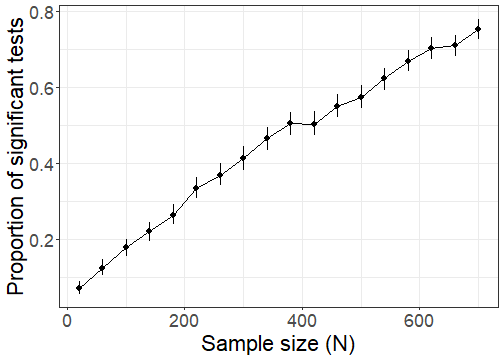
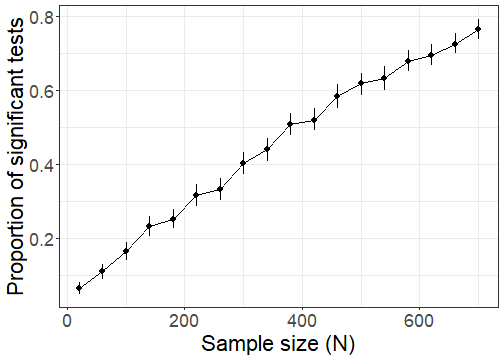
fixed typo

diff --git a/Week-23---Power-and-Effect-Size.html b/Week-23---Power-and-Effect-Size.html
@@ -69,13 +69,13 @@ t.test(a, b)
 ## 	Welch Two Sample t-test
 ## 
 ## data:  a and b
-## t = -3.6041, df = 97.936, p-value = 0.0004945
+## t = -5.2875, df = 96.591, p-value = 7.705e-07
 ## alternative hypothesis: true difference in means is not equal to 0
 ## 95 percent confidence interval:
-##  -1.0605961 -0.3073724
+##  -1.4128043 -0.6416112
 ## sample estimates:
-## mean of x mean of y 
-## 0.2140856 0.8980699
+##  mean of x  mean of y 
+## -0.1956339  0.8315739
 ```
 
 ---
@@ -245,9 +245,9 @@ As the effect size increases, the **power** of the study increases.
 ![](Week-23---Power-and-Effect-Size_files/figure-html/unnamed-chunk-6-1.png)&lt;!-- --&gt;
 ]
 .pull-right[
-The study has approximately 14.7% power to detect a 0.1 difference in means.
+The study has approximately 17.8% power to detect a 0.1 difference in means.
 
-But the study also has approximately 87.1% power to detect a 0.3 difference in means.
+But the study also has approximately 84.4% power to detect a 0.3 difference in means.
 
 Studies have a **power curve**, not a single *power*.
 ]
@@ -425,13 +425,13 @@ t.test(a, b)
 ## 	Welch Two Sample t-test
 ## 
 ## data:  a and b
-## t = -3.6041, df = 97.936, p-value = 0.0004945
+## t = -5.2875, df = 96.591, p-value = 7.705e-07
 ## alternative hypothesis: true difference in means is not equal to 0
 ## 95 percent confidence interval:
-##  -1.0605961 -0.3073724
+##  -1.4128043 -0.6416112
 ## sample estimates:
-## mean of x mean of y 
-## 0.2140856 0.8980699
+##  mean of x  mean of y 
+## -0.1956339  0.8315739
 ```
 
 ```r
@@ -439,7 +439,7 @@ t.test(a, b)
 ```
 
 ```
-## [1] -0.7208247
+## [1] -1.057495
 ```
 
 ---
@@ -570,7 +570,7 @@ Note - not every possible test and every possible effect size can fit! We'll cov
 |-|-|-|-|
 |d|0.2|0.5|0.8|
 |r|.1|.3|.5|
-| `\(r^2\)`|.1|.9|.25|
+| `\(r^2\)`|.1|.19|.25|
 | `\(\eta^2\)` |.01|.06|.14|
 | `\(\eta^2_p\)` |.01|.09| .25|
 | `\(\eta^2_g\)` |.02|.13|.26|
@@ -594,13 +594,22 @@ afex::aov_ez(dv = "RT",
 ```
 
 ```
+## Registered S3 methods overwritten by 'lme4':
+##   method                          from
+##   cooks.distance.influence.merMod car 
+##   influence.merMod                car 
+##   dfbeta.influence.merMod         car 
+##   dfbetas.influence.merMod        car
+```
+
+```
 ## Anova Table (Type 3 tests)
 ## 
 ## Response: RT
-##            Effect    df     MSE          F  ges p.value
-## 1           Block 1, 49 1656.83 283.70 ***  .53  &lt;.0001
-## 2       Viewpoint 1, 49 2202.02       2.36  .01     .13
-## 3 Block:Viewpoint 1, 49 2217.42       1.41 .008     .24
+##            Effect    df     MSE          F   ges p.value
+## 1           Block 1, 49 1708.09 284.70 ***   .56  &lt;.0001
+## 2       Viewpoint 1, 49 2338.19       0.02 .0001     .89
+## 3 Block:Viewpoint 1, 49 1793.12       1.77  .008     .19
 ## ---
 ## Signif. codes:  0 '***' 0.001 '**' 0.01 '*' 0.05 '+' 0.1 ' ' 1
 ```
@@ -620,7 +629,7 @@ class: inverse, center, middle
 # So what *does* the p-value tell us?
 
 ---
-background-image: url(images/DrakeMeme.jpg)
+background-image: url('images/DrakeMeme.jpg')
 
 
 ---
